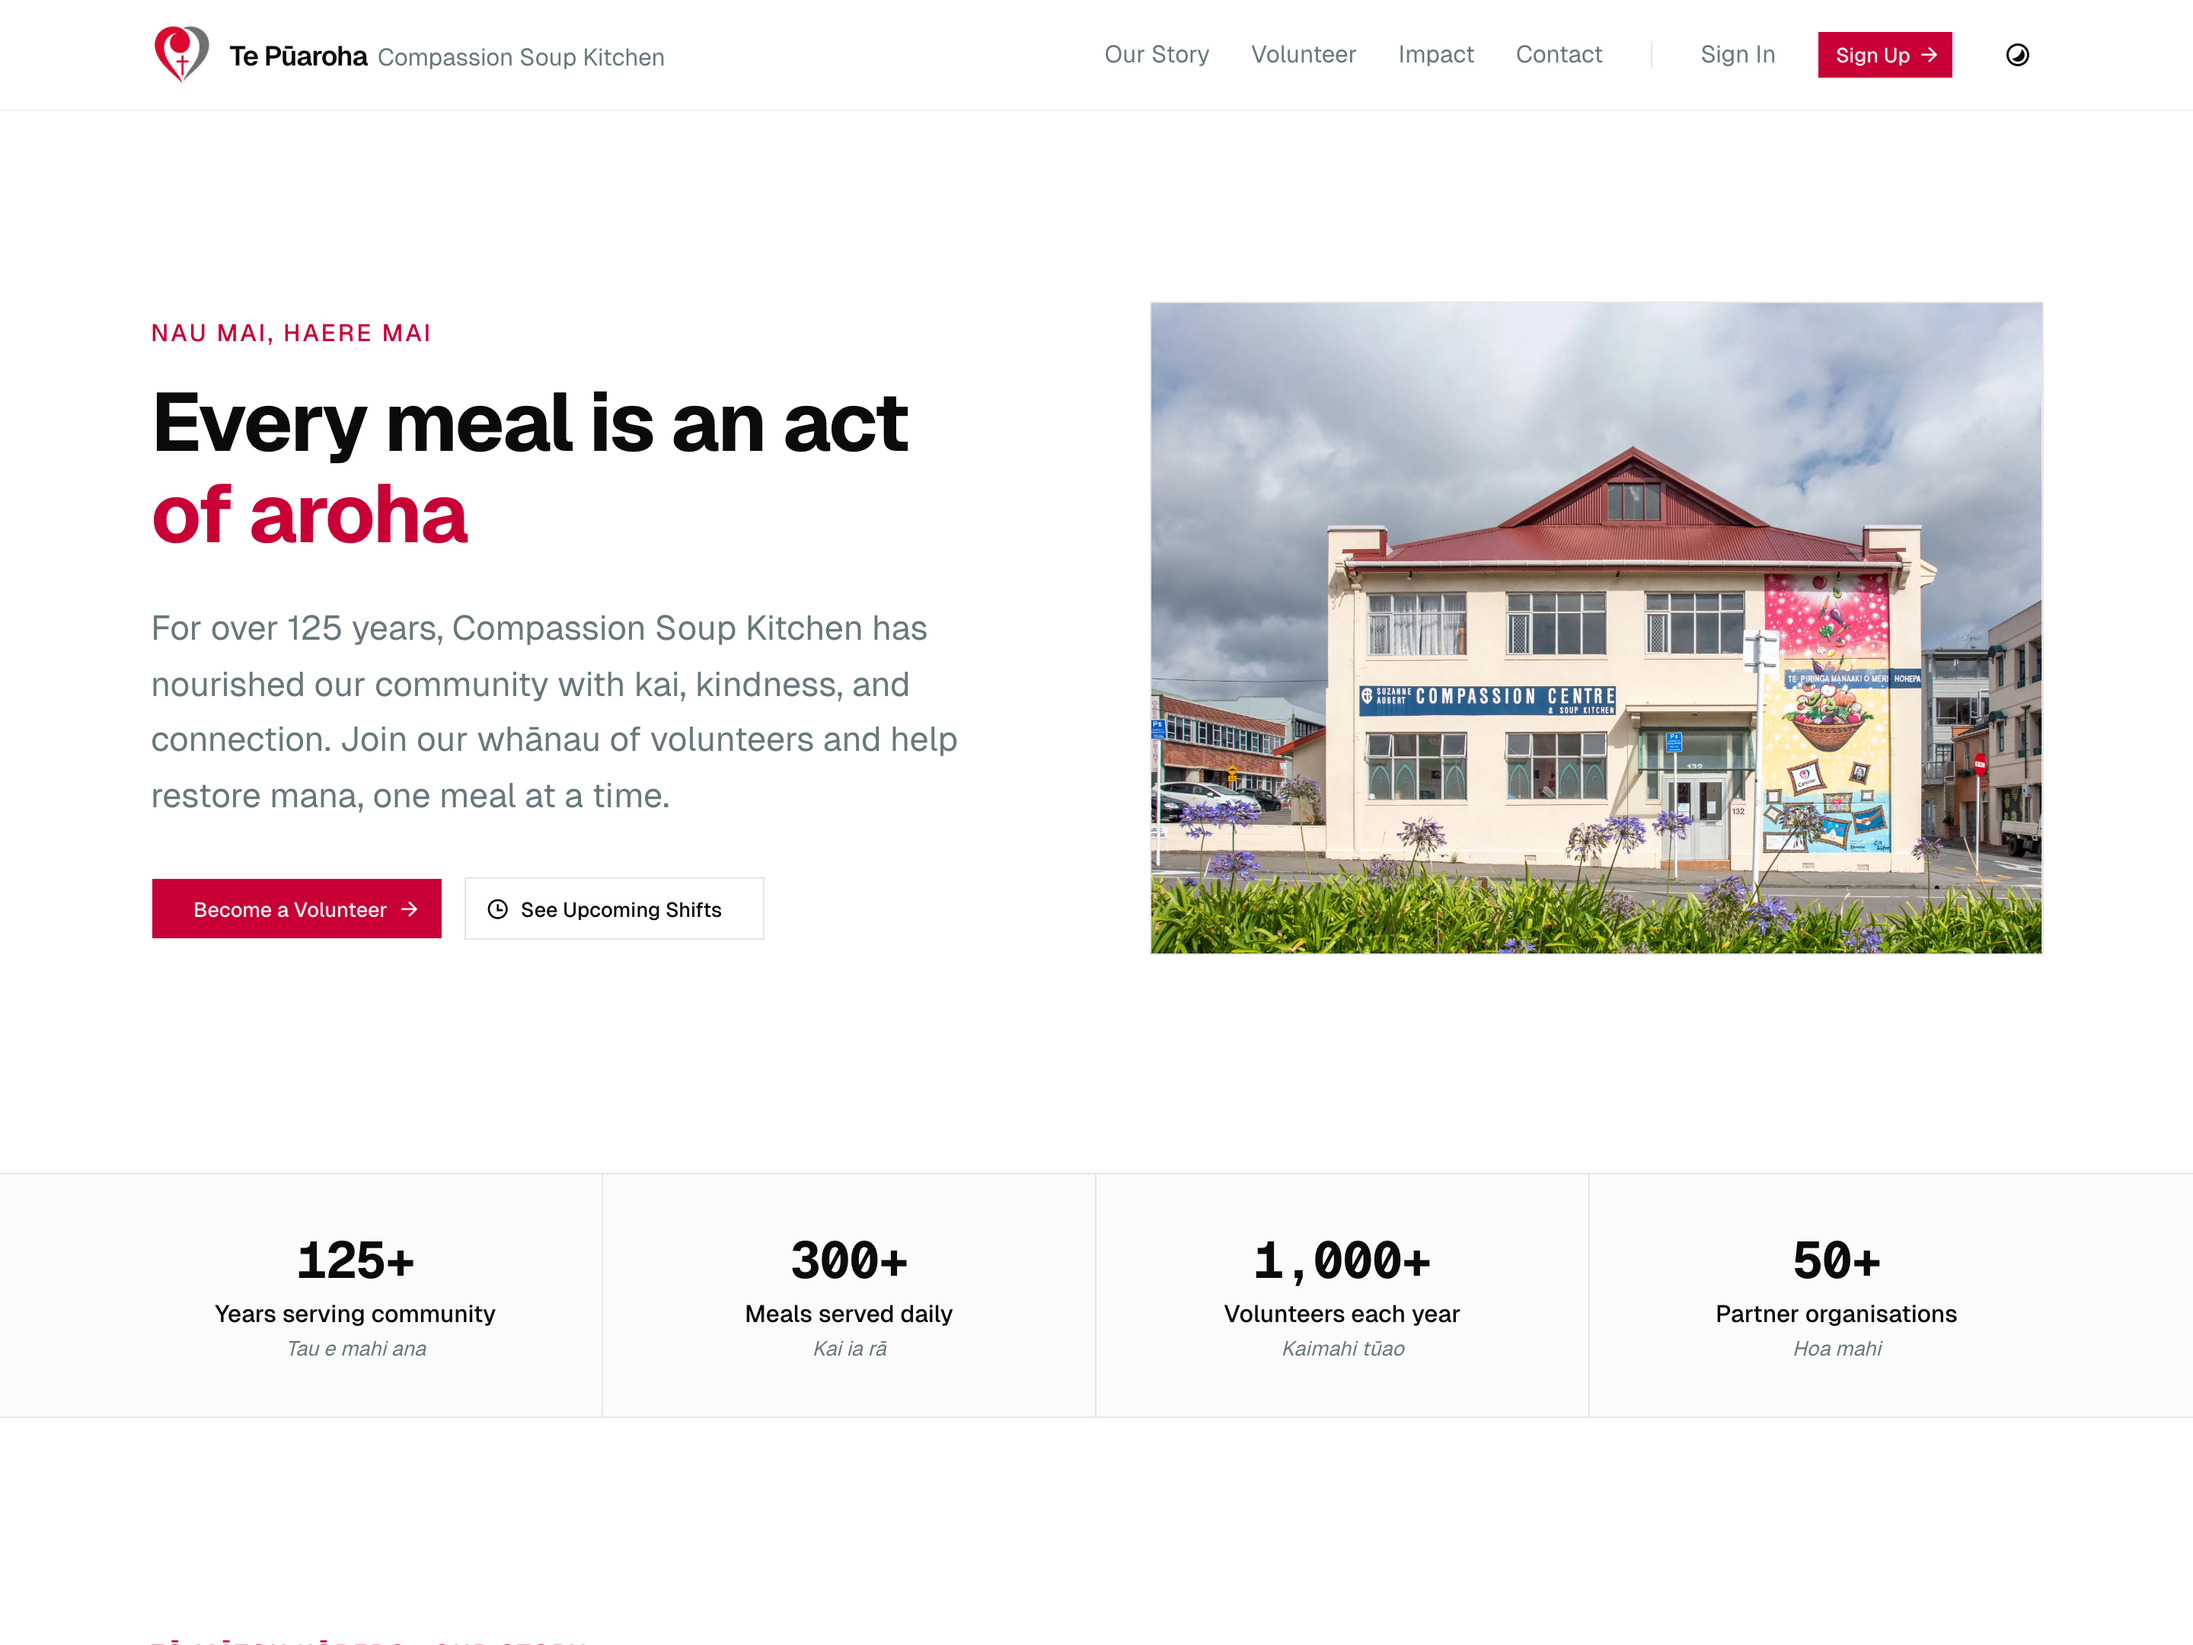
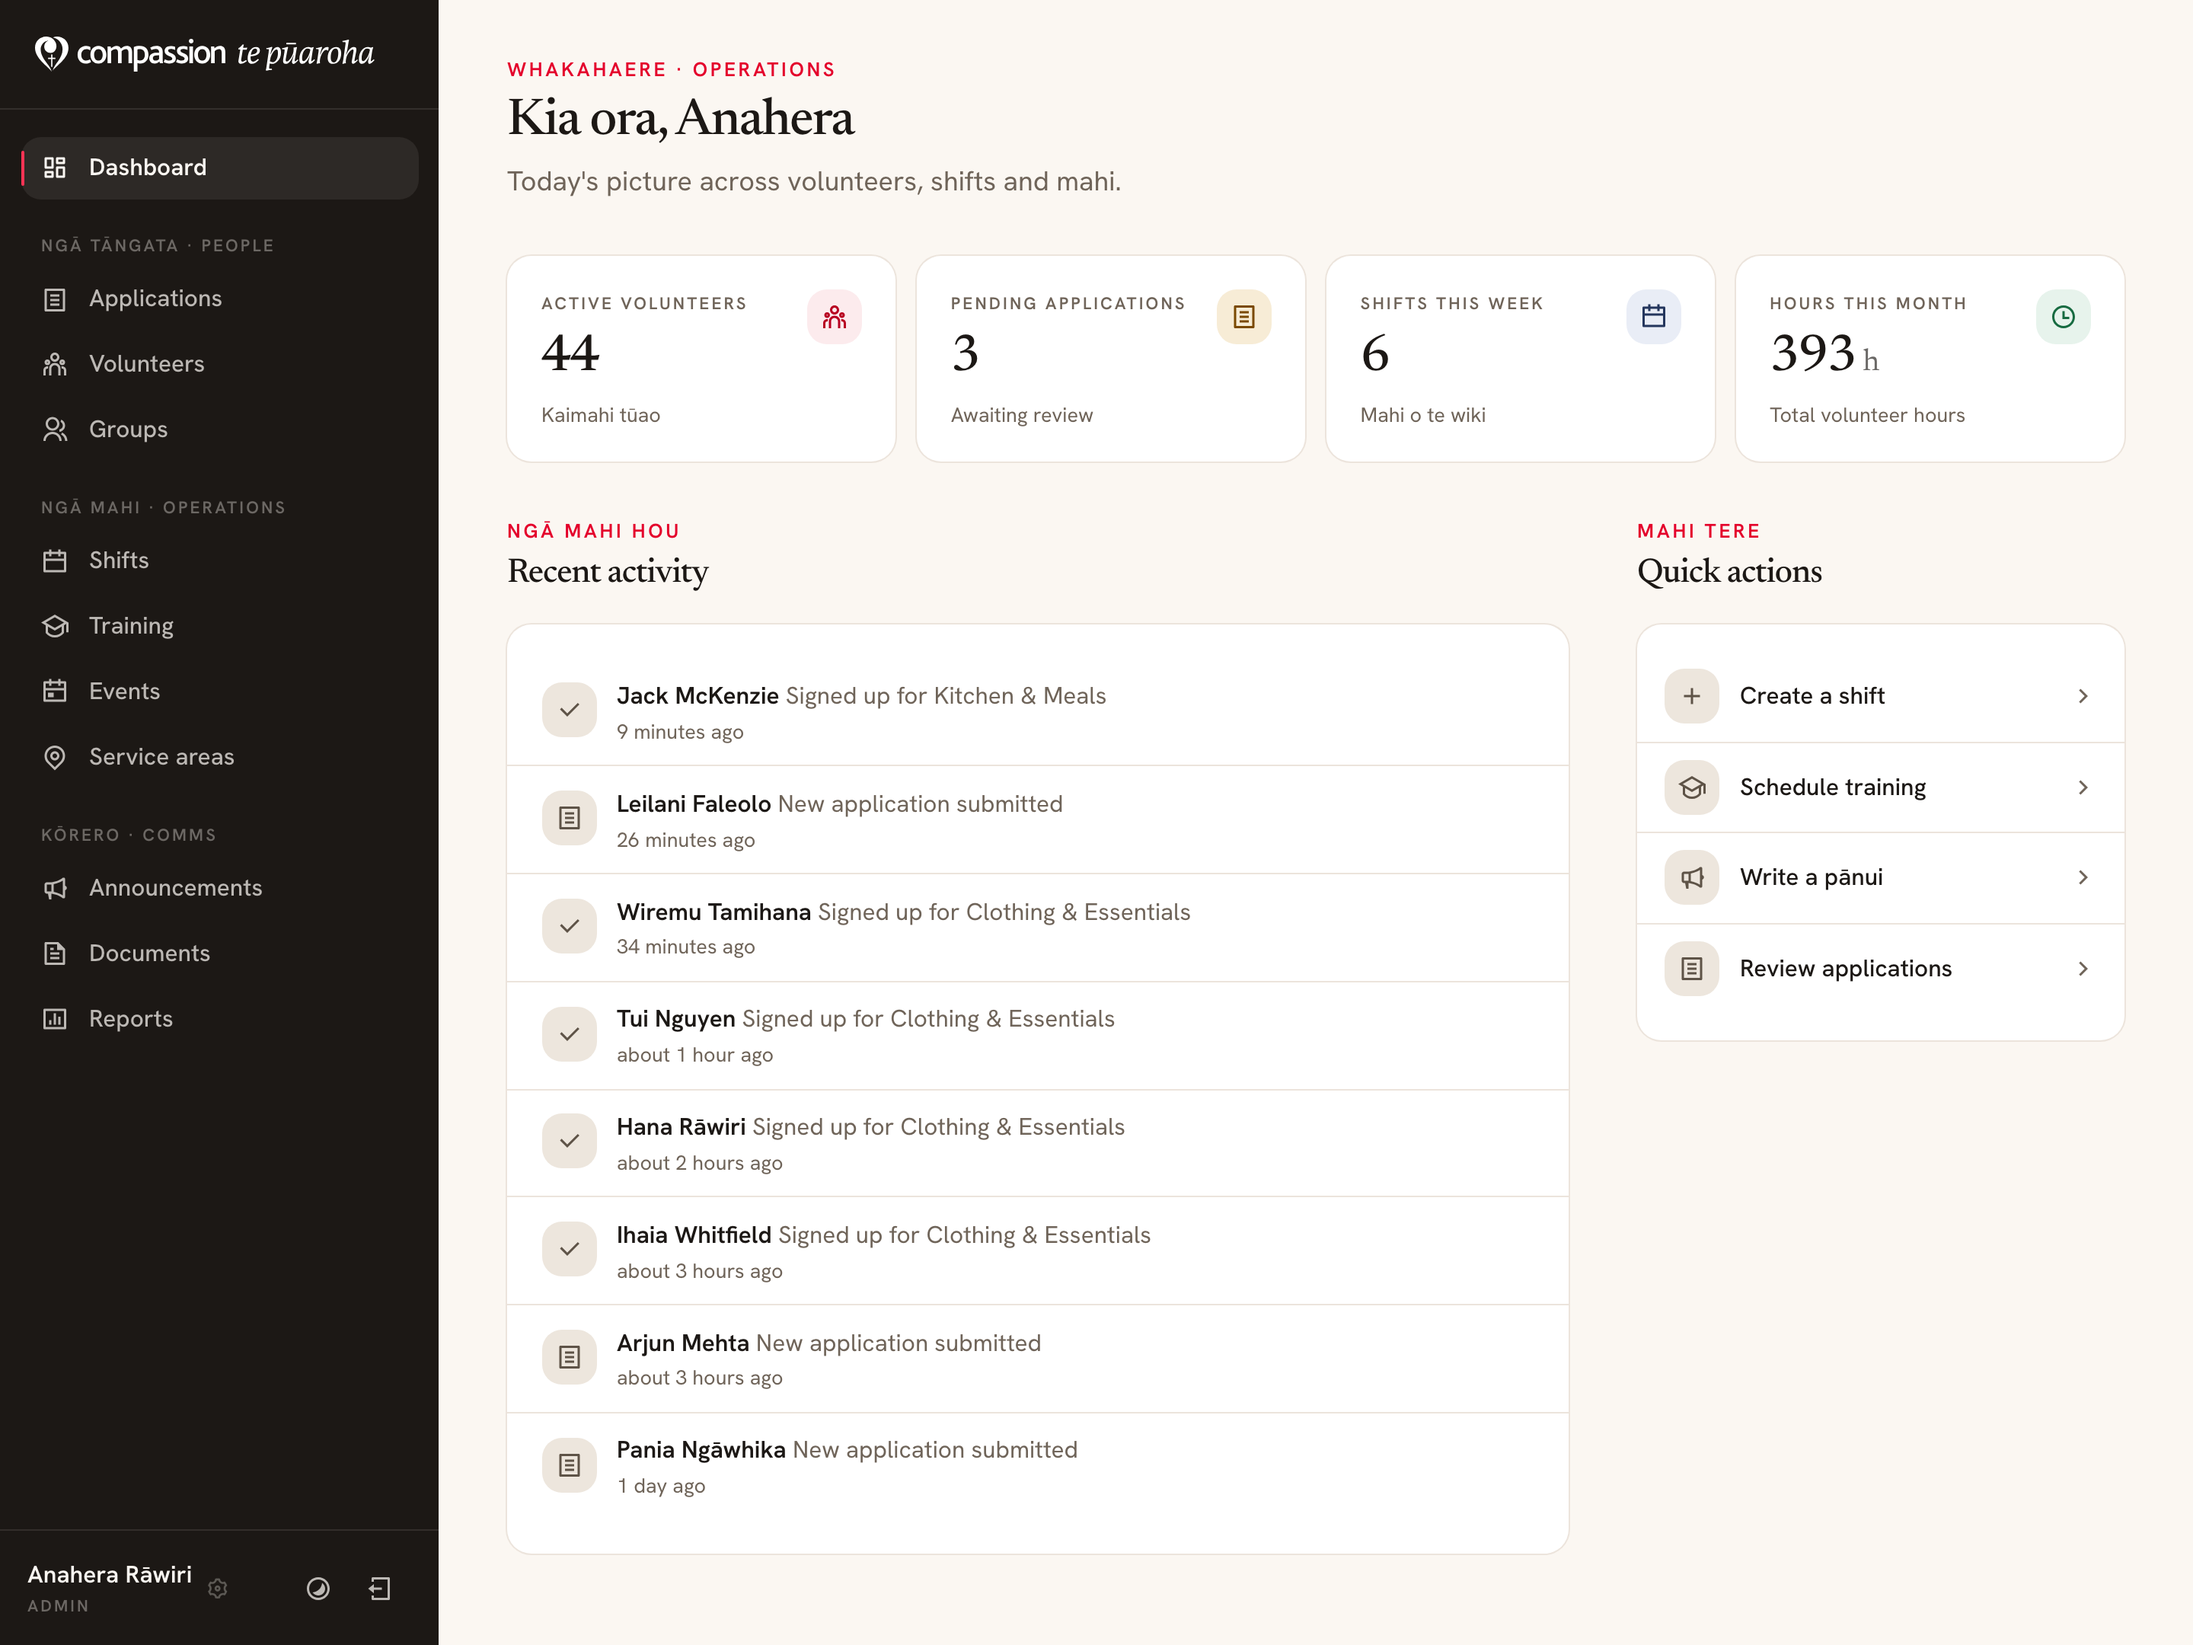
Real Compassion screenshots, and Fair Food to 900+ volunteers (#54)
- Compassion's case study now shows the live staff dashboard instead of
  the public landing page, captured from a local seeded instance with
  fictional data (prod lists real volunteers by name), plus the volunteer
  app's home screen as the phone overlay.
- capture-screenshots.mjs can sign into a localhost target and capture
  named targets only (pnpm run screenshots compassion).
- scripts/compassion-demo-data.cts fills a fresh seed with a believable
  month so the dashboard doesn't read like a dev seed.
- Fair Food: 800+ -> 900+ volunteers.

diff --git a/src/data/cases.ts b/src/data/cases.ts
@@ -47,7 +47,7 @@ export const CASES: CaseStudy[] = [
     blurb:
       "A volunteer site and shift booking system for the crew who sort, cook, and share rescued kai in Avondale every day — browse open shifts solo, or sign up a whole team at once.",
     metrics: [
-      { v: "800+", l: "volunteers" },
+      { v: "900+", l: "volunteers" },
       { v: "100+", l: "shifts a month" },
       { v: "100", l: "Lighthouse performance score" },
     ],
@@ -68,9 +68,12 @@ export const CASES: CaseStudy[] = [
     scheme: "sea",
     image: "screenshots/compassion.png",
     imageAlt:
-      "Compassion Soup Kitchen volunteer site, 'Every meal is an act of aroha'",
+      "Compassion Soup Kitchen staff dashboard: active volunteers, pending applications, shifts this week, and recent sign-ups",
     beforeImage: "screenshots/compassion-before.png",
     beforeImageAlt:
       "Compassion's old volunteer signup — a long generic web form asking for title, four address lines and more before you can help",
+    phoneImage: "screenshots/compassion-app.png",
+    phoneImageAlt:
+      "Compassion volunteer app home screen: 'Kia ora, Aroha', the next rostered shift with details and directions, and booked training",
   },
 ];
